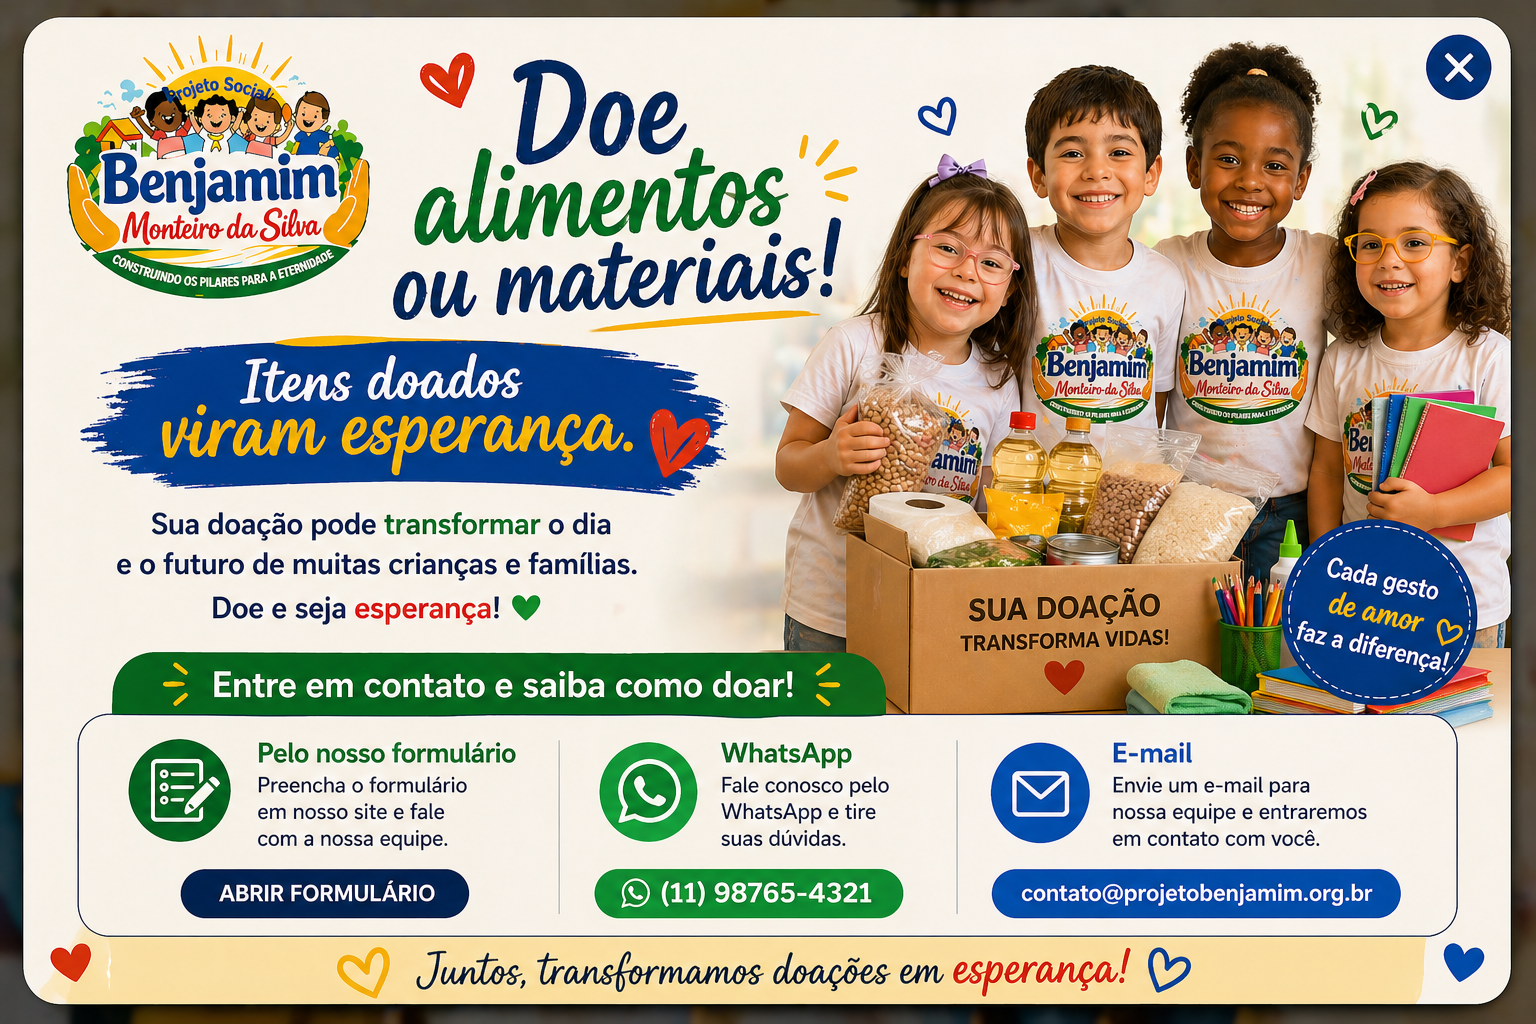
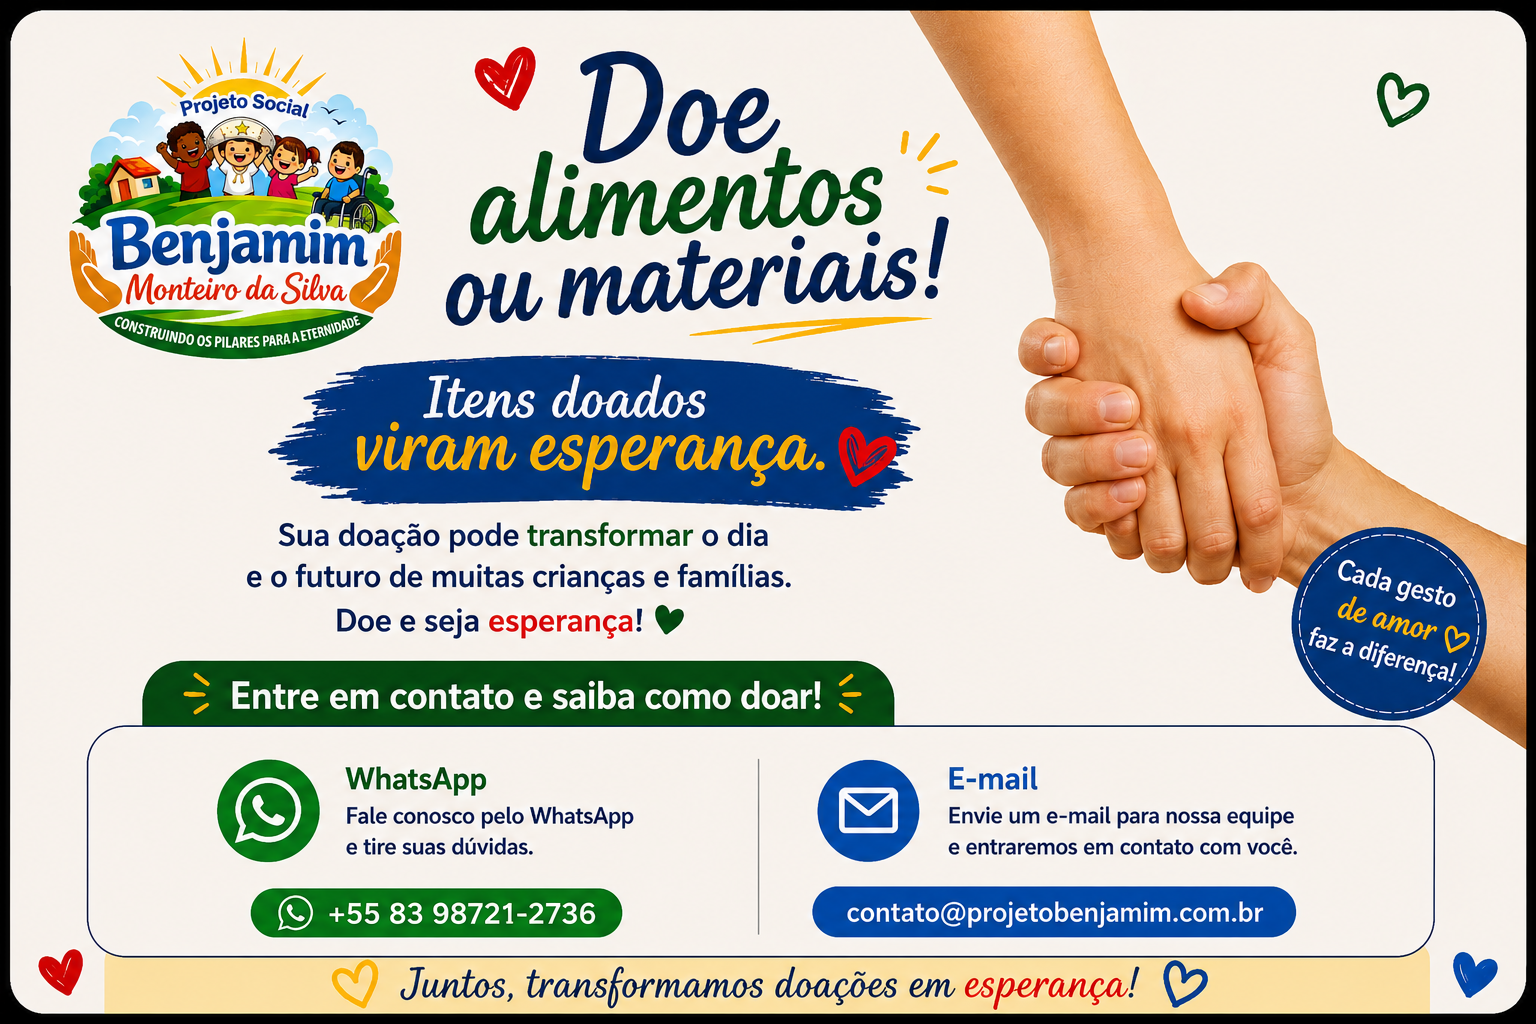
Atualiza galeria e paginas legais

diff --git a/politica-de-privacidade.html b/politica-de-privacidade.html
@@ -11,11 +11,54 @@
     <div class="wrap legal-content">
       <a class="btn" href="index.html">VOLTAR AO SITE</a>
       <h1>Política de Privacidade</h1>
-      <p>O Projeto Social Benjamim Monteiro da Silva respeita a privacidade de todas as pessoas que acessam este site e utiliza as informações fornecidas apenas para fins de contato, atendimento, orientação e comunicação institucional.</p>
-      <p>Os dados enviados pelo formulário, como nome, e-mail, telefone e mensagem, são utilizados exclusivamente para responder às solicitações recebidas. Essas informações não são vendidas, compartilhadas comercialmente ou utilizadas para finalidades diferentes daquelas relacionadas ao projeto social.</p>
-      <p>O site pode conter links para páginas externas, como redes sociais, WhatsApp, parceiros e plataformas de apoio. Ao acessar esses ambientes, o visitante estará sujeito às políticas de privacidade de cada serviço externo.</p>
-      <p>As imagens, vídeos e conteúdos publicados têm finalidade institucional, educativa e social, buscando divulgar as ações do projeto e fortalecer a transparência com a comunidade, parceiros, voluntários e apoiadores.</p>
-      <p>Em caso de dúvidas sobre privacidade ou solicitação relacionada ao uso de dados, o contato pode ser feito pelo e-mail contato@projetobenjamim.com.br.</p>
+
+      <p>A sua privacidade é importante para nós. É política do Projeto Benjamim Monteiro respeitar a sua privacidade em relação a qualquer informação pessoal que possamos coletar em nosso site.</p>
+
+      <p>Nosso site possui um formulário de contato onde o usuário pode fornecer informações como:</p>
+      <ul>
+        <li>Nome completo;</li>
+        <li>E-mail;</li>
+        <li>Número de telefone e/ou WhatsApp;</li>
+        <li>Mensagem para contato.</li>
+      </ul>
+
+      <p>Essas informações são fornecidas voluntariamente pelo usuário com o objetivo de entrar em contato com a equipe responsável pelo projeto, solicitar informações, realizar contribuições ou obter atendimento.</p>
+
+      <h2>Coleta e uso das informações</h2>
+      <p>Os dados coletados são utilizados exclusivamente para:</p>
+      <ul>
+        <li>Responder mensagens enviadas pelo usuário;</li>
+        <li>Realizar contato quando necessário;</li>
+        <li>Prestar informações sobre ações, atividades e projetos sociais;</li>
+        <li>Facilitar a comunicação entre o usuário e a instituição.</li>
+      </ul>
+
+      <p>O Projeto Benjamim Monteiro compromete-se a utilizar os dados pessoais de forma responsável, ética e segura, respeitando a privacidade de todos os usuários.</p>
+
+      <h2>Armazenamento e proteção dos dados</h2>
+      <p>As informações fornecidas são armazenadas em ambiente seguro e protegidas contra acesso não autorizado, perda, alteração, divulgação ou qualquer forma de uso indevido.</p>
+      <p>Adotamos medidas de segurança tecnicamente adequadas para preservar a integridade e confidencialidade dos dados pessoais coletados.</p>
+
+      <h2>Compartilhamento de informações</h2>
+      <p>O Projeto Benjamim Monteiro não vende, aluga ou compartilha dados pessoais com terceiros, exceto quando necessário para cumprimento de obrigação legal.</p>
+
+      <h2>Links externos</h2>
+      <p>Nosso site poderá conter links para sites externos que não são operados pelo Projeto Benjamim Monteiro. Não nos responsabilizamos pelas políticas de privacidade ou conteúdo desses sites externos.</p>
+
+      <h2>Compromisso do usuário</h2>
+      <p>O usuário se compromete a fazer uso adequado do site e de seus conteúdos, não realizando atividades ilegais, ofensivas ou que possam comprometer a segurança da plataforma.</p>
+      <p>Também é proibido:</p>
+      <ul>
+        <li>Tentar acessar áreas restritas do sistema sem autorização;</li>
+        <li>Inserir vírus ou qualquer código malicioso;</li>
+        <li>Utilizar o site para disseminação de conteúdo ilegal, ofensivo ou prejudicial.</li>
+      </ul>
+
+      <h2>Consentimento</h2>
+      <p>Ao utilizar este site e preencher os formulários disponíveis, o usuário declara estar ciente e de acordo com esta Política de Privacidade.</p>
+
+      <h2>Contato</h2>
+      <p>Em caso de dúvidas sobre esta Política de Privacidade, entre em contato pelos canais oficiais do Projeto Benjamim Monteiro.</p>
     </div>
   </main>
 </body>

diff --git a/transparencia.html b/transparencia.html
@@ -11,11 +11,26 @@
     <div class="wrap legal-content">
       <a class="btn" href="index.html">VOLTAR AO SITE</a>
       <h1>Transparência e Compromisso Social</h1>
-      <p>O Projeto Social Benjamim Monteiro da Silva - Construindo os Pilares para a Eternidade atua com compromisso cristão, responsabilidade social e respeito às famílias acompanhadas pela iniciativa.</p>
-      <p>As ações desenvolvidas buscam promover cuidado integral, apoio socioeducativo, fortalecimento familiar, proteção, solidariedade e desenvolvimento de crianças e adolescentes em situação de vulnerabilidade social.</p>
-      <p>As doações, parcerias e apoios recebidos são direcionados às atividades do projeto, incluindo ações educativas, refeições, campanhas, acompanhamento familiar, materiais de apoio e iniciativas comunitárias voltadas à dignidade e proteção das crianças, adolescentes e famílias atendidas.</p>
-      <p>O projeto valoriza a prestação de contas, a comunicação clara com a comunidade e o relacionamento responsável com parceiros, voluntários, doadores e instituições apoiadoras.</p>
-      <p>Responsável: Pastor Linaldo Guerra, Primeira Igreja Batista de Pilar. CNPJ 09.299.876/0001-55.</p>
+
+      <p>O Projeto Benjamim Monteiro acredita que a transparência é um dos pilares fundamentais para a construção da confiança, do respeito e da credibilidade junto à sociedade, apoiadores, voluntários e beneficiários de nossas ações sociais.</p>
+
+      <p>Todas as doações recebidas são destinadas ao fortalecimento e manutenção das atividades desenvolvidas pelo projeto, incluindo ações sociais, assistência às famílias, aquisição de alimentos, materiais, realização de eventos, projetos educacionais, culturais e demais iniciativas promovidas pela instituição.</p>
+
+      <h2>Como funcionam as doações</h2>
+      <p>As contribuições realizadas ao Projeto Benjamim Monteiro possuem caráter voluntário e solidário, podendo ser efetuadas por pessoas físicas ou jurídicas através dos meios disponibilizados oficialmente pela instituição.</p>
+      <p>Os valores arrecadados são utilizados exclusivamente para fins relacionados às atividades sociais e institucionais do projeto, respeitando os princípios da legalidade, responsabilidade e finalidade social.</p>
+
+      <h2>Registro e controle das contribuições</h2>
+      <p>O Projeto Benjamim Monteiro mantém controle interno das doações recebidas, buscando assegurar organização, responsabilidade administrativa e correta aplicação dos recursos.</p>
+      <p>Sempre que solicitado, poderá ser emitido recibo simples de doação contendo informações básicas da contribuição realizada, conforme os dados fornecidos pelo doador.</p>
+
+      <h2>Compromisso com a responsabilidade social</h2>
+      <p>Nosso compromisso vai além da assistência social. Trabalhamos para promover dignidade, acolhimento, inclusão e transformação social através de ações realizadas com respeito, ética e responsabilidade.</p>
+      <p>Cada contribuição recebida representa apoio direto às famílias, crianças, jovens e pessoas atendidas pelo projeto.</p>
+
+      <h2>Prestação de informações</h2>
+      <p>O Projeto Benjamim Monteiro compromete-se a agir com boa-fé, transparência e responsabilidade na condução de suas atividades sociais e administrativas.</p>
+      <p>Em caso de dúvidas sobre doações, contribuições ou ações desenvolvidas, os interessados poderão entrar em contato pelos canais oficiais da instituição.</p>
     </div>
   </main>
 </body>

diff --git a/js/main.js b/js/main.js
@@ -80,6 +80,7 @@ const galleryItems = [
   { type: "image", src: "assets/images/galeria-jogos.png", alt: "Crianças participando de jogos educativos" },
   { type: "image", src: "assets/images/galeria-oracao.png", alt: "Momento de oração com as crianças" },
   { type: "image", src: "assets/images/galeria-refeicao.png", alt: "Refeição servida às crianças" },
+  { type: "image", src: "assets/images/brincadeira-criancas.png", alt: "Crianças participando de brincadeiras no projeto" },
   {
     type: "youtube",
     src: "https://www.youtube.com/embed/Ifcvj3A7NtE",

diff --git a/css/styles.css b/css/styles.css
@@ -1519,6 +1519,21 @@
       line-height: 1.65;
     }
 
+    .legal-content h2 {
+      margin: 28px 0 10px;
+      color: var(--blue);
+      font-size: 24px;
+      line-height: 1.2;
+    }
+
+    .legal-content ul {
+      margin: 0 0 18px 22px;
+      padding: 0;
+      color: #172039;
+      font-size: 17px;
+      line-height: 1.65;
+    }
+
     .pix-modal {
       position: fixed;
       inset: 0;
